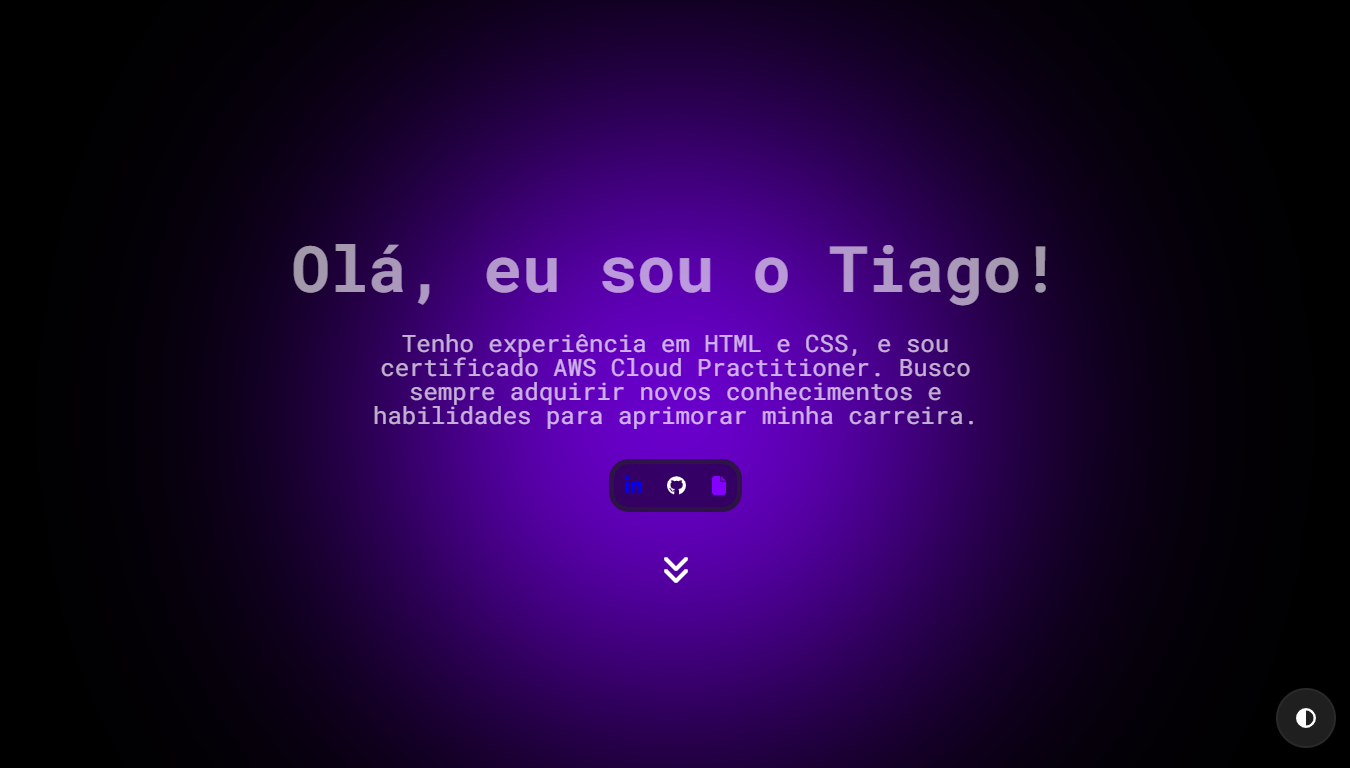
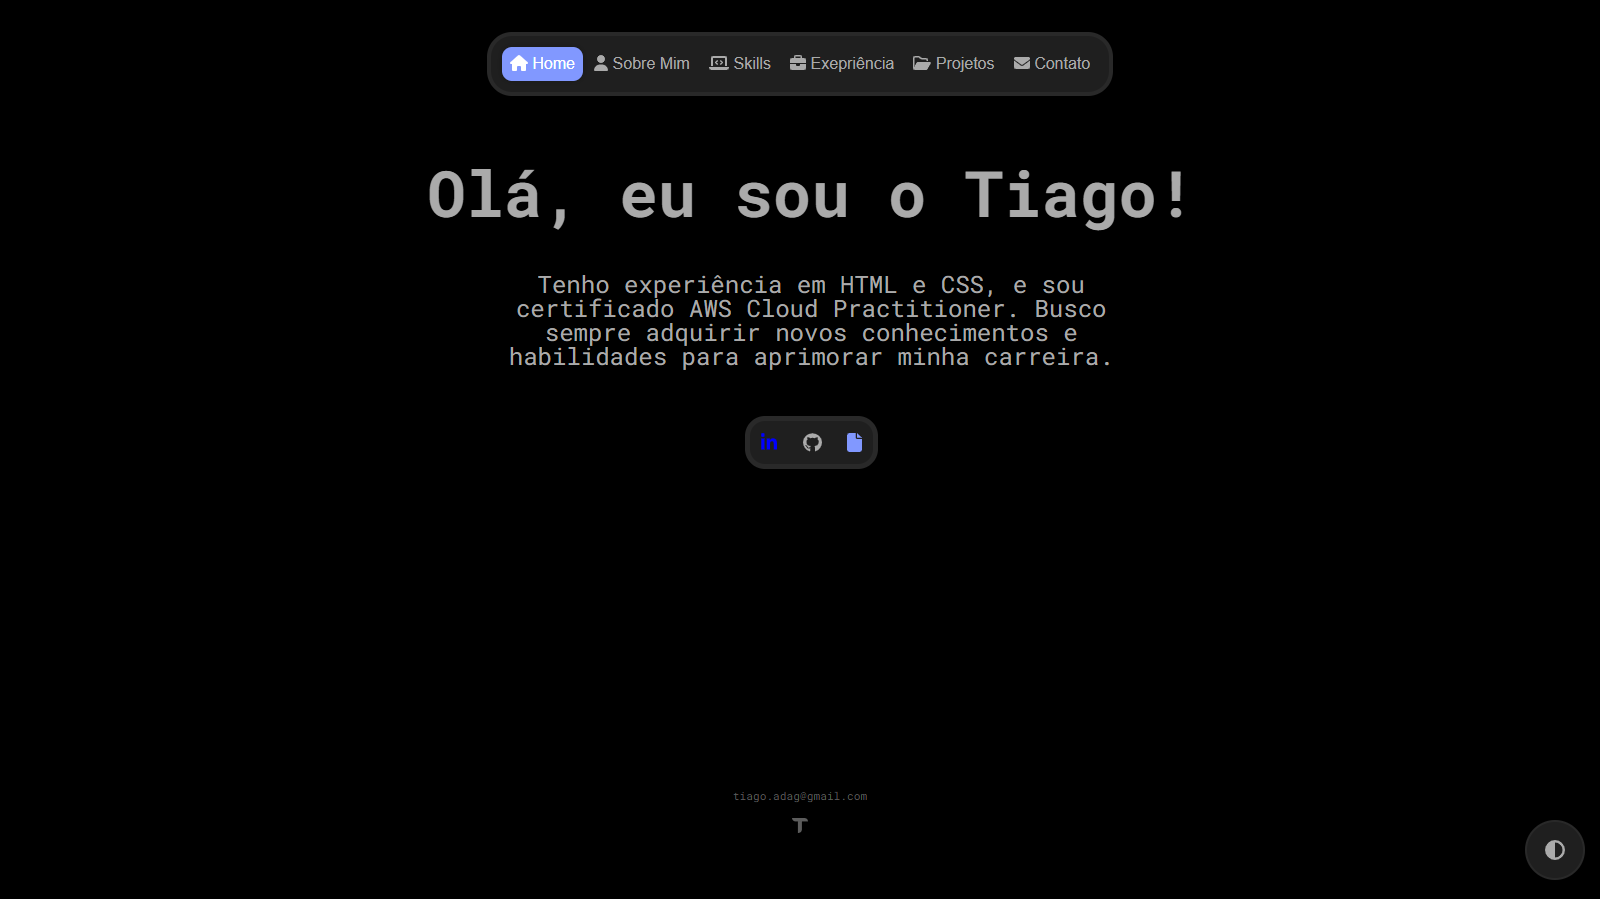
ajustes de design

diff --git a/index.html b/index.html
@@ -25,43 +25,51 @@
 </head>
 
 <body class="flex center column">
-    <section id="apresentacao" class="padding flex center column">
-        <h1 class="titulo">Olá, eu sou o Tiago!</h1>
-        <p class="paragrafo">Tenho experiência em HTML e CSS, e sou certificado AWS Cloud Practitioner. Busco sempre
-            adquirir novos conhecimentos e habilidades para aprimorar minha carreira.</p>
-        <div id="social">
-            <a href="https://www.linkedin.com/in/tiago-augusto-dal-acqua-gonçalves-44983321b/" target="_blank">
-                <button class="btn" id="linkedin">
-                    <i class="fa-brands fa-linkedin-in icon"></i>
-                </button>
-            </a>
-
-            <a href="https://github.com/tiagoadag1203" target="_blank">
-                <button class="btn" id="git">
-                    <i class="fa-brands fa-github icon"></i>
-                </button>
-            </a>
-
-            <a href="curriculo.pdf" download="Tiago Augusto" target="_blank">
-                <button class="btn" id="curriculo">
-                    <i class="fa-solid fa-file icon"></i>
-                </button>
-            </a>
-        </div>
-        <a href="#conteudo"><button id="avancar" class="btn"><i class="fa-solid fa-angles-down"></i></button></a>
-    </section>
-
-    <section id="conteudo">
-        <div id="menu" class="padding flex center">
+    <header>
+        <div id="menu" class="flex center padding">
             <div id="btns-menu" class="flex center row wrap">
-                <button class="btn btn-menu ativo" onclick="openTab('sobremim')">Sobre Mim</button>
-                <button class="btn btn-menu" onclick="openTab('skills')">Skills</button>
-                <button class="btn btn-menu" onclick="openTab('experiencia')">Exepriência</button>
-                <button class="btn btn-menu" onclick="openTab('projetos')">Projetos</button>
-                <button class="btn btn-menu" onclick="openTab('contato')">Contato</button>
+                <button class="btn btn-menu ativo" onclick="openTab('apresentacao')"><i class="fa-solid fa-house"></i><span> Home</span></button>
+                <button class="btn btn-menu" onclick="openTab('sobremim')"><i class="fa-solid fa-user"></i> <span> Sobre Mim</span></button>
+                <button class="btn btn-menu" onclick="openTab('skills')"><i class="fa-solid fa-laptop-code"></i><span> Skills</span></button>
+                <button class="btn btn-menu" onclick="openTab('experiencia')"><i class="fa-solid fa-briefcase"></i><span> Exepriência</span></button>
+                <button class="btn btn-menu" onclick="openTab('projetos')"><i class="fa-regular fa-folder-open"></i><span> Projetos</span></button>
+                <button class="btn btn-menu" onclick="openTab('contato')"><i class="fa-solid fa-envelope"></i> <span> Contato</span></button>
             </div>
         </div>
-        <section id="sobremim" class="padding flex center column cont desatived active">
+    </header>
+
+    
+    <section id="conteudo" class="">
+
+        <!-- APRESENTAÇÃO -->
+
+        <section id="apresentacao" class="padding flex center column desatived active">
+            <h1 class="titulo">Olá, eu sou o Tiago!</h1>
+            <p class="paragrafo">Tenho experiência em HTML e CSS, e sou certificado AWS Cloud Practitioner. Busco sempre
+                adquirir novos conhecimentos e habilidades para aprimorar minha carreira.</p>
+            <div id="social">
+                <a href="https://www.linkedin.com/in/tiago-augusto-dal-acqua-gonçalves-44983321b/">
+                    <button class="btn" id="linkedin">
+                        <i class="fa-brands fa-linkedin-in icon"></i>
+                    </button>
+                </a>
+                <a href="https://github.com/tiagoadag1203">
+                    <button class="btn" id="git">
+                        <i class="fa-brands fa-github icon"></i>
+                    </button>
+                </a>
+                <a href="curriculo.pdf" download="Tiago Augusto">
+                    <button class="btn" id="curriculo">
+                        <i class="fa-solid fa-file icon"></i>
+                    </button>
+                </a>
+            </div>
+        </section>
+
+
+        <!-- SOBRE MIM -->
+
+        <section id="sobremim" class="padding flex center column cont desatived">
             <h2>Sobre Mim</h2>
             <div class="img-pessoal flex center">
             </div>
@@ -72,6 +80,10 @@
                 necessárias. Além disso, já realizei cursos de HTML5, CSS3, AWS Cloud Practitioner e AWS
                 Solutions Architect, obtendo o certificado Cloud Practitioner.</p>
         </section>
+
+
+        <!-- SKILLS -->
+
         <section id="skills" class="padding flex center column cont desatived">
             <h2>Skills</h2>
             <div class="flex center column soft-hard">
@@ -122,6 +134,9 @@
                 </div>
             </div>
         </section>
+
+        <!-- EXPERIENCIA -->
+
         <section id="experiencia" class="padding flex center column cont desatived">
             <h2>Experiência</h2>
             <div class="cards flex center wrap">
@@ -145,6 +160,9 @@
                 </div>
             </div>
         </section>
+
+        <!-- PROJETOS -->
+        
         <section id="projetos" class="padding flex center column cont desatived">
             <h2>Projetos</h2>
             <div class="cards flex center wrap">

diff --git a/css/sections/apresentacao.css b/css/sections/apresentacao.css
@@ -1,28 +1,18 @@
 #apresentacao{
-    min-height: 100vh;
-    background-image: radial-gradient(circle,var(--roxo), var(--bg));
-    background-size: cover;
-    background-position: center;
-    gap: 2rem;
+    gap: 3rem;
+    animation: myAnim 0.5s
 }
 
 .titulo{
     color: var(--font-color);
     font-size: 3rem;
     text-align: center;
-    filter: opacity(60%);
-}
-
-#apresentacao>.paragrafo{
-    font-size: 1rem;
-    text-align: center;
-    filter: opacity(70%);
 }
 
 #social{
-    background-color: var(--bg-transparent);
-    border: solid 5px var(--bg-transparent2);
-    border-radius: 20px;
+    background-color: var(--bg2);
+    border: solid 5px var(--bg3);
+    border-radius: 25px;
     padding: 0.2rem;
 }
 
@@ -30,16 +20,22 @@
     text-decoration: none;
 }
 
+#social button{
+    width: 40px;
+    height: 40px;
+    border-radius: 17px;
+}
+
 .icon{
     font-size: 1.2rem;
 }
 
 #linkedin{
-    color: blue;
+    color: #4441ff;
 }
 
 #linkedin:hover{
-    background-color: blue;
+    background-color: #4441ff;
     color: white;
 }
 
@@ -63,10 +59,6 @@
 }
 
 @media (min-width: 700px){
-    #apresentacao{
-        min-width: 95%;
-    }
-
     .titulo{
         font-size: 4rem;
     }

diff --git a/css/sections/contato.css b/css/sections/contato.css
@@ -13,7 +13,7 @@
     background-color: var(--bg3);
     border-style: none;
     padding: 15px;
-    border-radius: 10px;
+    border-radius: 15px;
     color: var(--font-color);
     font-family: 'Roboto Mono', monospace;
 }
@@ -24,7 +24,7 @@
     background-color: var(--bg3);
     border-style: none;
     padding: 15px;
-    border-radius: 10px;
+    border-radius: 15px;
     color: var(--font-color);
     font-family: 'Roboto Mono', monospace;
 }
@@ -39,15 +39,17 @@
 
 .btn-submit{
     width: 50%;
-    background-color: var(--roxo);
+    background-color: var(--bg3);
     padding: 10px;
     border: none;
-    border-radius: 10px;
+    border-radius: 15px;
     font-family: 'Roboto Mono', monospace;
     transition: 0.2s;
     font-size: 1rem;
+    color: var(--font-color);
 }
 
 .btn-submit:hover{
-    transform: scale(1.1);
+    background-color: var(--roxo);
+    color: white;
 }

diff --git a/css/root.css b/css/root.css
@@ -4,20 +4,32 @@
     --bg3: #E0E0E0;
     --bg-transparent: #ffffff7a;
     --bg-transparent2: #d8d7d77a;
-    --font-color: black;
+    --font-color: rgb(92, 92, 92);
     --border: #66666683;
-    --roxo: #9b31ff;
+    --roxo: #8198ff;
     --sombra: rgba(0, 0, 0, 0.479);
 }
 
-.dark{
+/* .dark{
     --bg: #000000;
     --bg2: #1f1f1f;
     --bg3: #292929;
     --bg-transparent: #0000007a;
     --bg-transparent2: #2727277a;
-    --font-color: white;
+    --font-color: rgb(170, 170, 170);
     --border:#ffffff83;
-    --roxo: #8400ff;
+    --roxo: #8198ff;
     --sombra: rgba(255, 255, 255, 0.603);
+} */
+
+.dark{
+    --bg: #191922;
+    --bg2: #282838;
+    --bg3: #333347;
+    --bg-transparent: #ffffff7a;
+    --bg-transparent2: #d8d7d77a;
+    --font-color: rgb(211, 211, 211);
+    --border: #66666683;
+    --roxo: #8198ff;
+    --sombra: rgba(0, 0, 0, 0.479);
 }

diff --git a/css/sections/menu.css b/css/sections/menu.css
@@ -1,15 +1,42 @@
-#btns-menu{
+#btns-menu {
     background-color: var(--bg2);
-    border: solid 5px var(--bg3);
-    border-radius: 20px;
+    border: 4px solid var(--bg3);
+    border-radius: 25px;
     padding: 0.5rem;
-    gap: 0.5rem;
+    gap: 0.2rem;
 }
 
-#btns-menu .btn:hover{
+.btn-menu {
+    width: 40px;
+    height: 40px;
+    font-size: 1.2rem;
+    border-radius: 14px;
+}
+
+.btn-menu span {
+    visibility: hidden;
+}
+
+.btn-menu:hover {
+    color: white;
     background-color: var(--roxo);
 }
 
-.ativo{
+.ativo {
+    color: white;
     background-color: var(--roxo);
+    box-shadow: 0px 0px 6px 0px rgba(0, 0, 0, 0.25);
+}
+
+@media (min-width: 600px) {
+
+    .btn-menu {
+        width: auto;
+        height: auto;
+        font-size: 1rem;
+    }
+
+    .btn-menu span {
+        visibility: visible;
+    }
 }

diff --git a/css/style.css b/css/style.css
@@ -2,7 +2,6 @@
 
 body,
 html {
-    min-height: 100vh;
     background: var(--bg);
     color: var(--font-color);
     font-family: 'Roboto Mono', monospace;
@@ -33,7 +32,7 @@ html {
 
 .cont {
     background-color: var(--bg2);
-    border-radius: 20px;
+    border-radius: 30px;
     margin: 2rem;
 }
 
@@ -92,14 +91,14 @@ h2 {
     background-color: var(--bg2);
     max-width: 300px;
     height: auto;
-    border: 2px solid var(--bg3);
-    border-radius: 10px;
+    border: 3px solid var(--bg3);
+    border-radius: 20px;
     padding: .5rem;
 }
 
 .card-image {
-    height: 150px;
-    border-radius: 8px;
+    height: 170px;
+    border-radius: 12px;
 }
 
 .card-image img {
@@ -155,7 +154,6 @@ h2 {
     font-size: 20px;
     color: var(--font-color);
 }
-
 
 
 

diff --git a/css/sections/skills.css b/css/sections/skills.css
@@ -13,6 +13,7 @@
 
 #hard-skill{
     width: 100%;
+    max-width: 300px;
     gap: 2rem;
 }
 

diff --git a/css/sections/conteudo.css b/css/sections/conteudo.css
@@ -1,3 +1,3 @@
 #conteudo{
-    min-height: 100vh;
+    min-height:max-content;
 }
